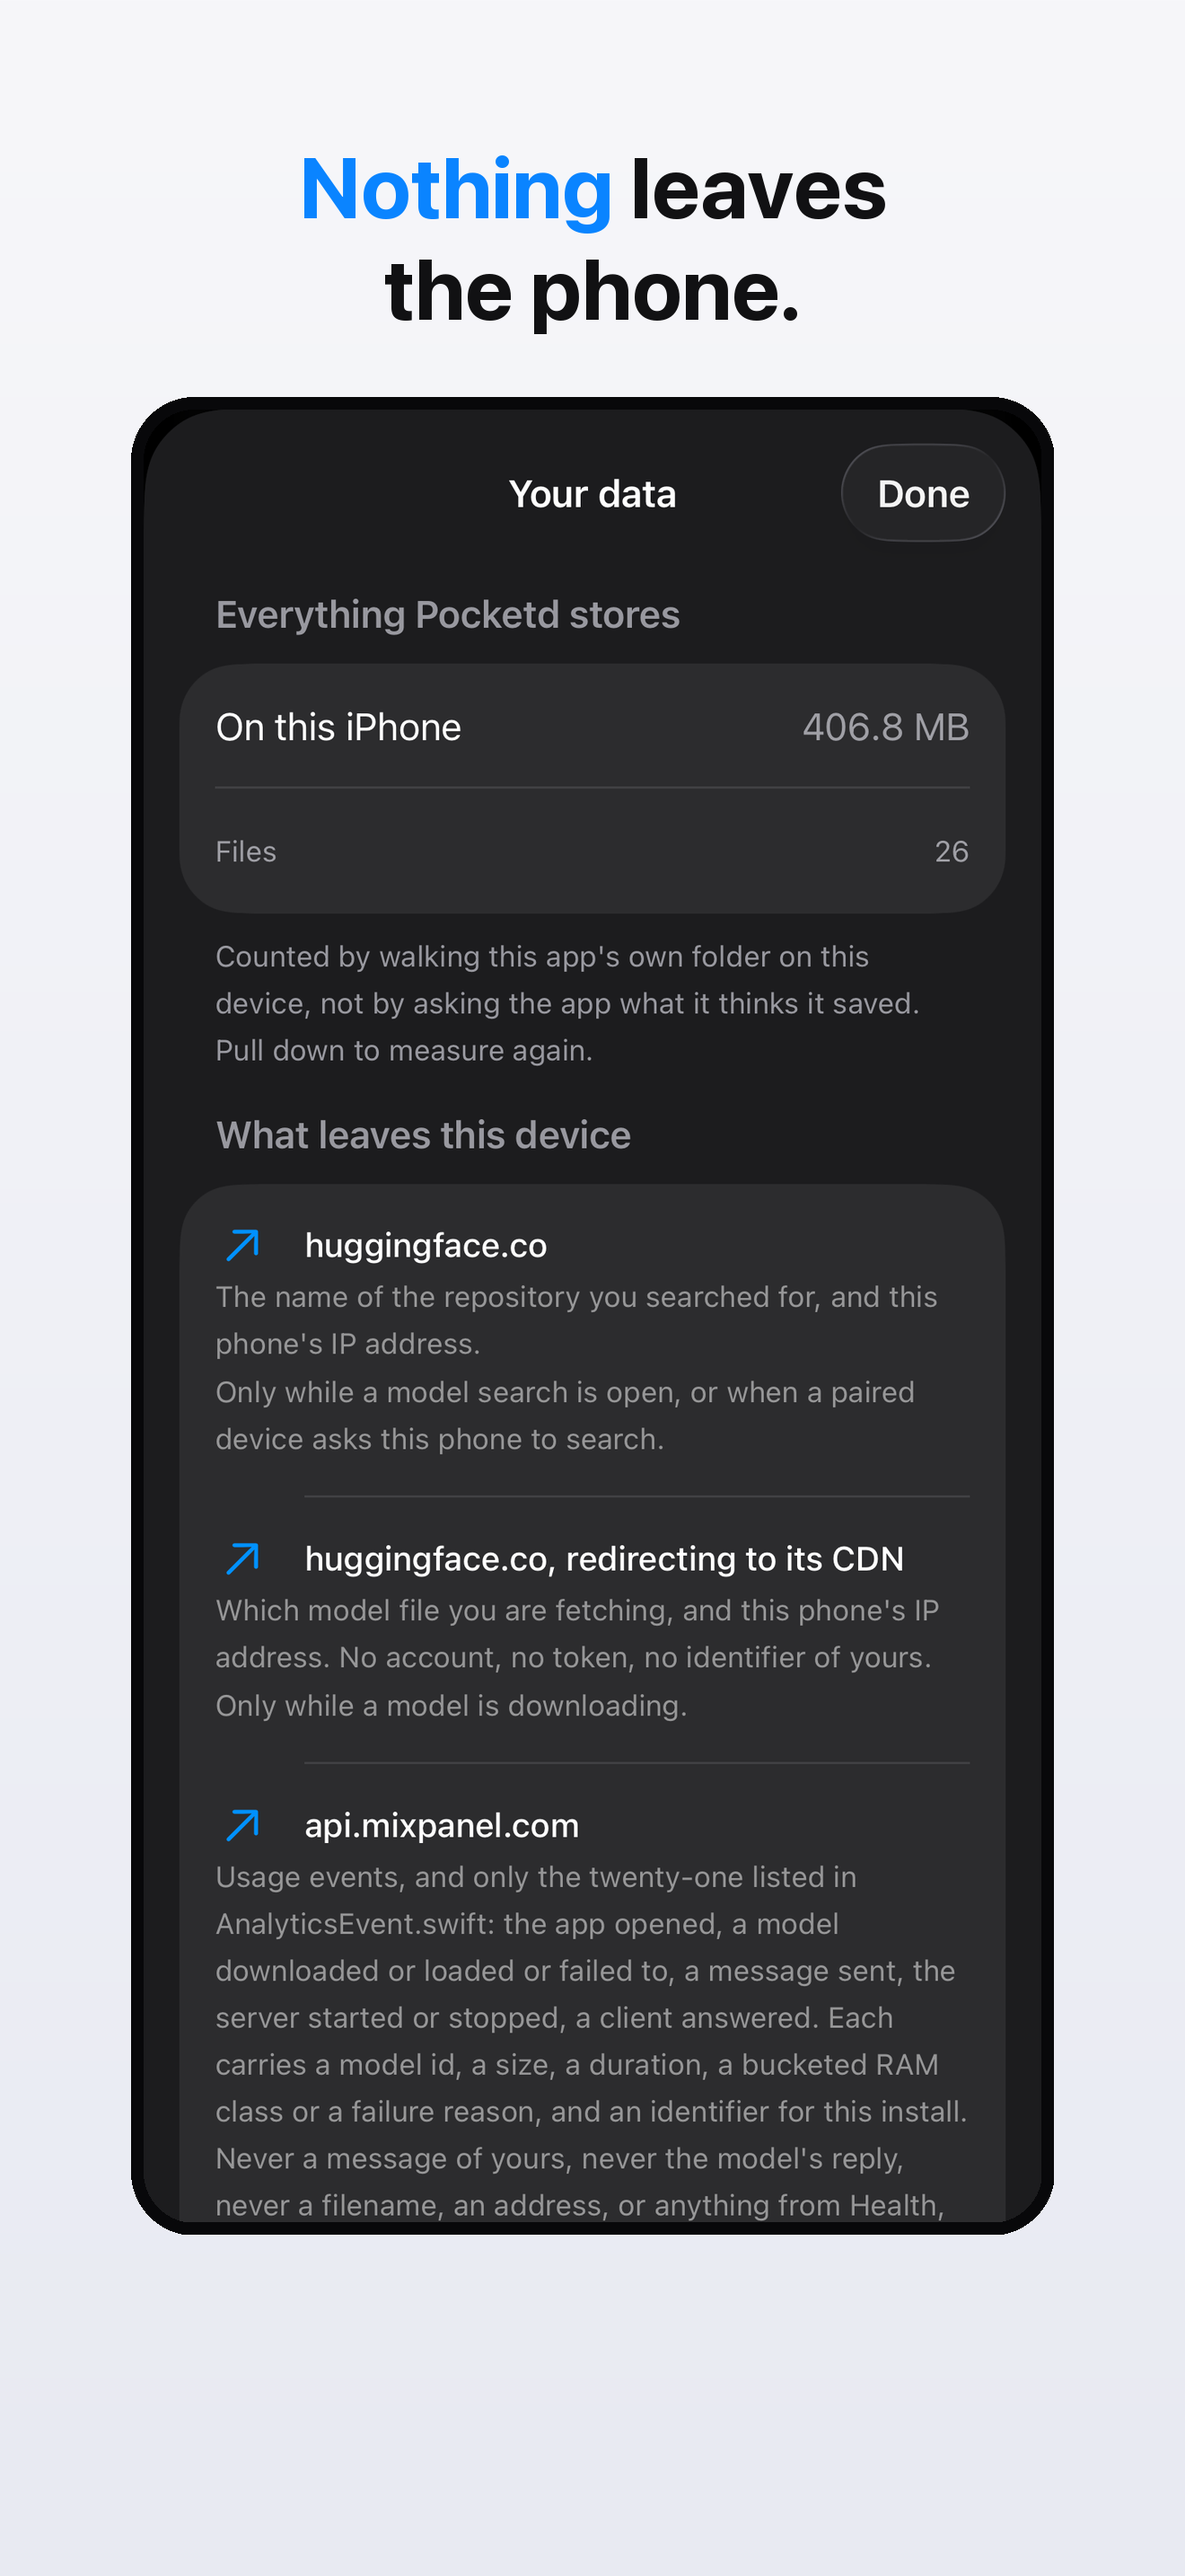
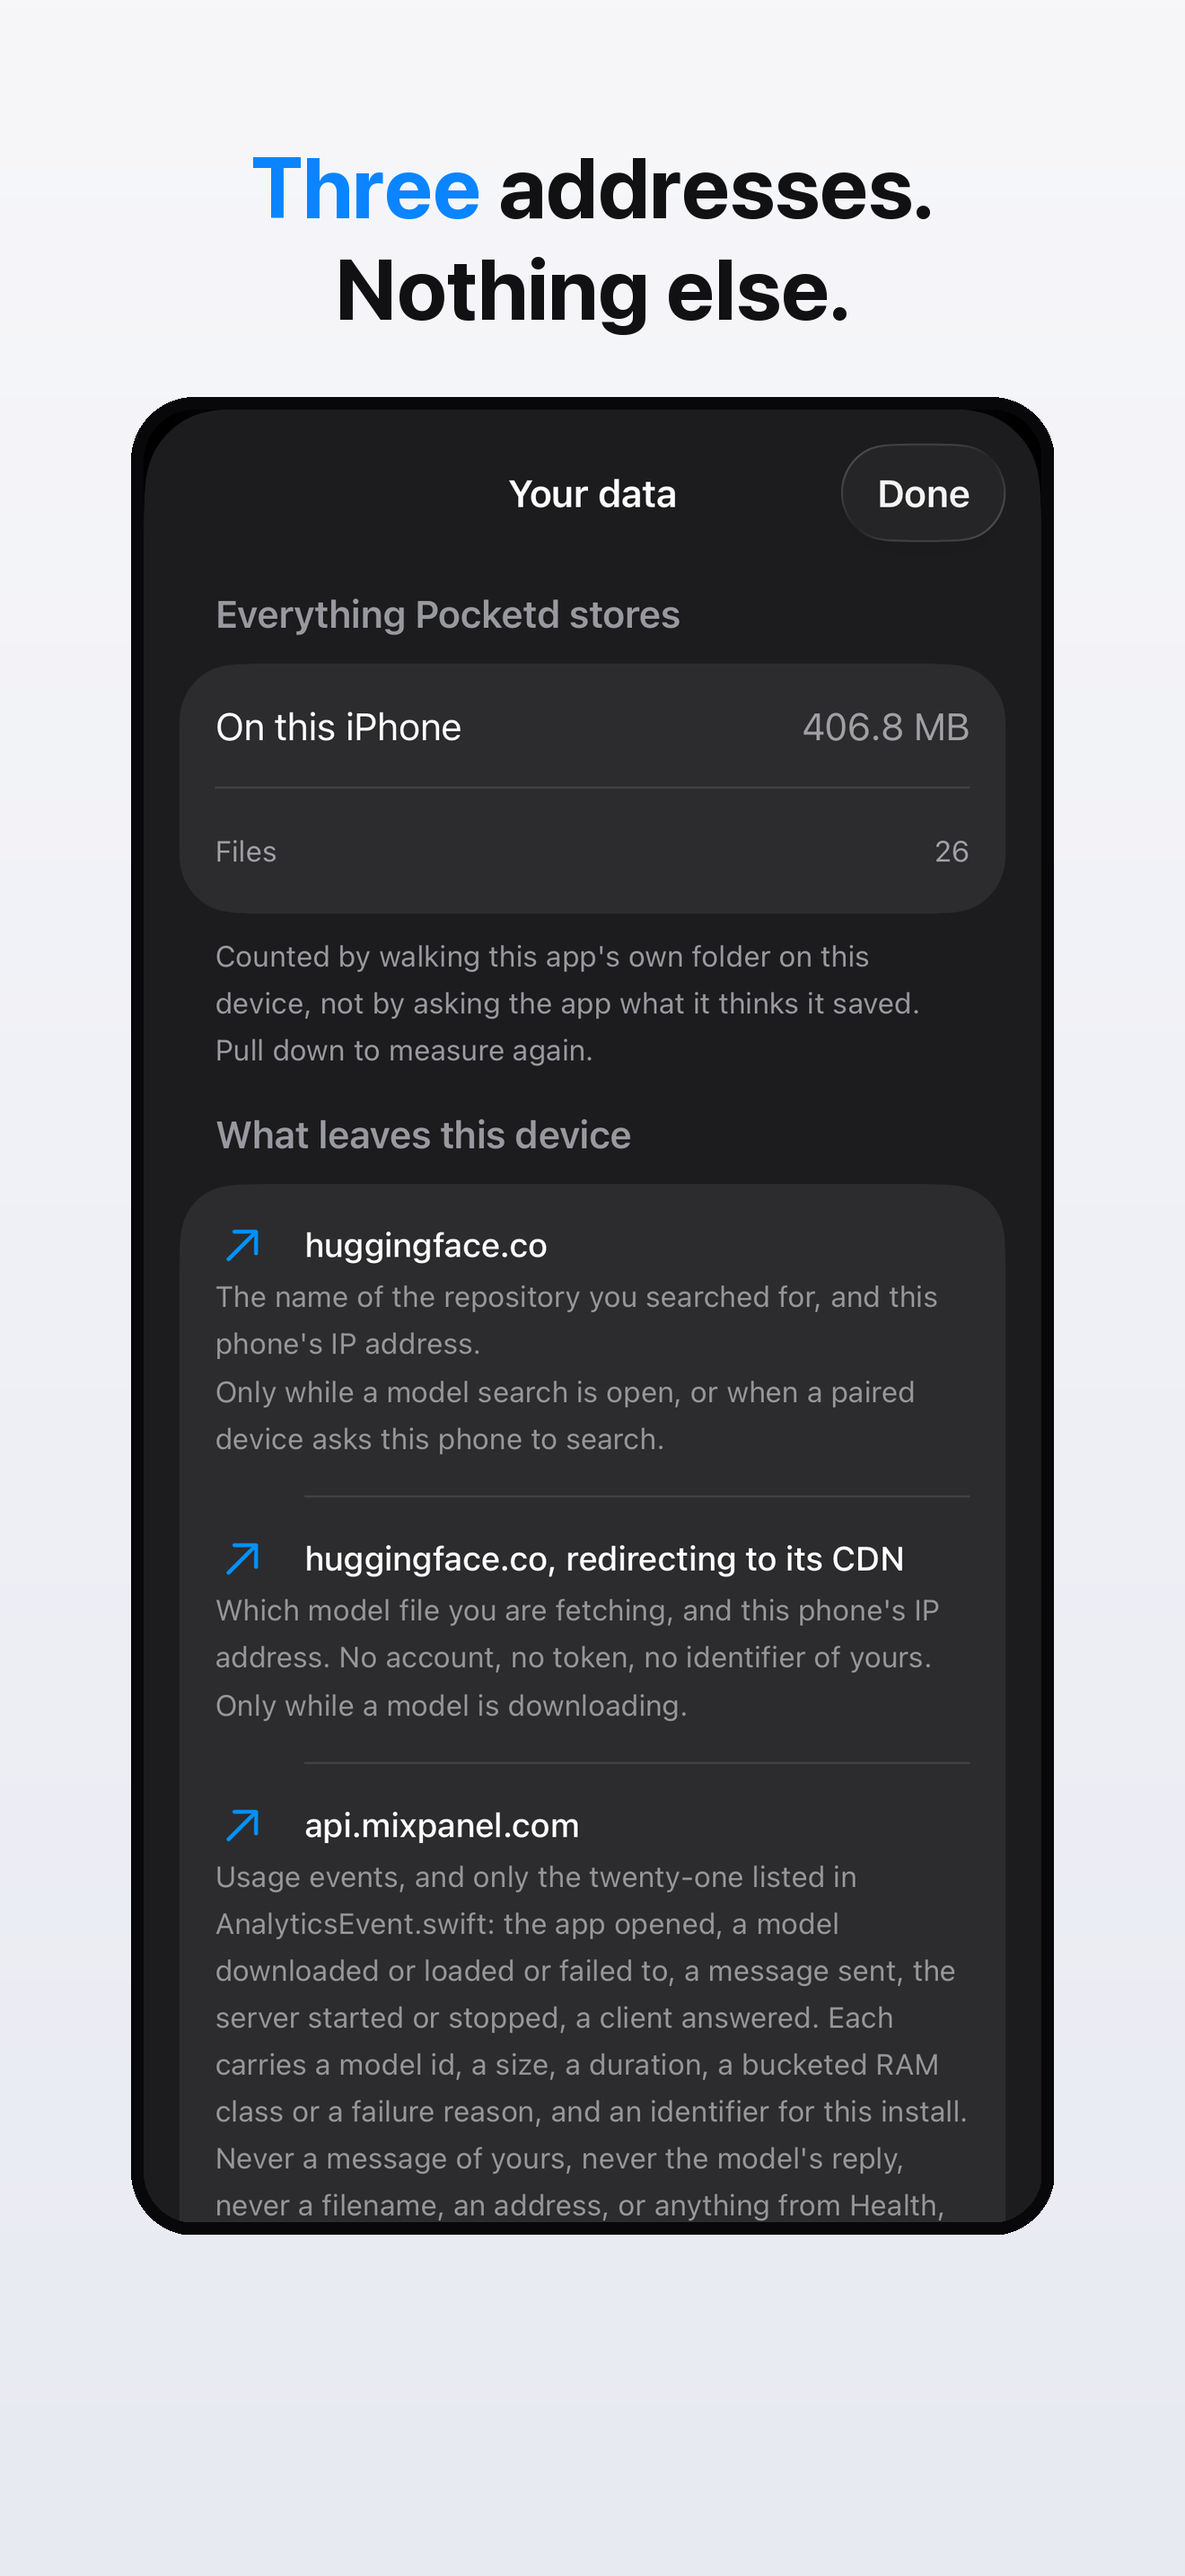
The privacy caption was refuted by the screen underneath it
"Nothing leaves the phone." sat directly above that screen's own header —
"What leaves this device" — and three addresses, one of them api.mixpanel.com.
Caption, then list, and the frame argues with itself in about a second. On the
one shot whose entire job is being believed, and in an app whose pitch is
"check our claims rather than trust them", so a reader who does exactly that
finds an apparent contradiction in the first thing they check.

The claim underneath was true and narrower than it sounded: nothing the user
types and nothing the model says ever leaves. The caption was absolute and the
evidence I chose to show was a list of network destinations.

Now "Three addresses. Nothing else." — which points at the list instead of
being undercut by it, and turns the same screen from the weakest thing in the
set into the strongest. A caption the evidence supports cannot be quoted
against us; the previous one could be, and would have been.

Found by the engineering manager, who read the rendered picture rather than
the plan that produced it. I had checked that the screen was accurate and not
that the words above it agreed with the words inside it.

Changed region(s): [[0.2174, 0.0621, 0.7765, 0.1241]]

diff --git a/scripts/store-shots.py b/scripts/store-shots.py
@@ -52,7 +52,18 @@ CAPTIONS = [
     ("chat-reminder",  "Ask it to remind you.|It actually does.",     "actually",  0.0),
     ("chat-repeat",    "Every weekday|at 7am.",                       "Every",     0.0),
     ("abilities",      "Three switches.|All start off.",              "off.",      0.0),
-    ("privacy",        "Nothing leaves|the phone.",                   "Nothing",   0.072),
+    # NOT "Nothing leaves the phone." That caption sat directly above the
+    # screen's own header, "What leaves this device", and three addresses — one
+    # of them api.mixpanel.com. The eye goes caption, then list, and the frame
+    # refutes itself in about a second, on the one shot whose whole job is being
+    # believed. The claim underneath it is true and narrower than it sounded:
+    # nothing the user types and nothing the model says ever leaves.
+    #
+    # Pointing AT the list is the stronger move anyway. The reason this shot
+    # earns a slot is that their privacy claim is a paragraph and ours is a
+    # screen somebody can check; a caption that makes the list the proof cannot
+    # be quoted against us, and a caption the list undercuts can.
+    ("privacy",        "Three addresses.|Nothing else.",              "Three",     0.072),
     ("server",         "Also: your phone|is an AI server.",           "server.",   0.0),
 ]
 

diff --git a/docs/app-store-listing.md b/docs/app-store-listing.md
@@ -114,9 +114,16 @@ one benefit per shot, exactly one accent word, 1320×2868.
 
 ### Done
 
-`docs/store/05-privacy.png` — "Nothing leaves the phone." over the data
+`docs/store/05-privacy.png` — "Three addresses. Nothing else." over the data
 inspector, showing a real byte count, a real file count and the three named
 destinations. No competitor can take this picture; theirs is a paragraph.
+
+The caption was "Nothing leaves the phone." and that was wrong, not merely
+weak. It sat directly above the screen's own header — "What leaves this
+device" — and three addresses, one of them `api.mixpanel.com`. The frame
+refuted itself in about a second, on the shot whose entire job is being
+believed. Caught by the engineering manager reading the picture rather than
+the plan.
 
 ### The four that need a real phone
 
